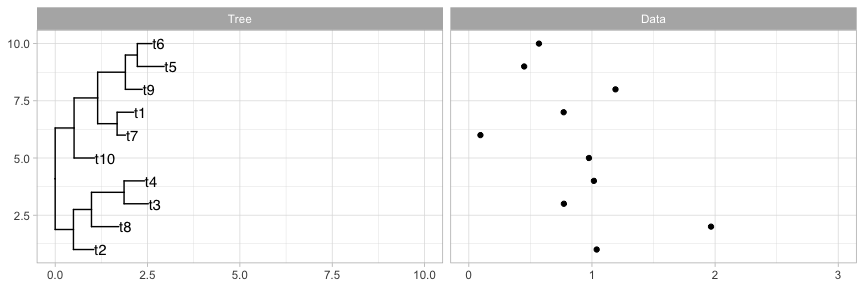
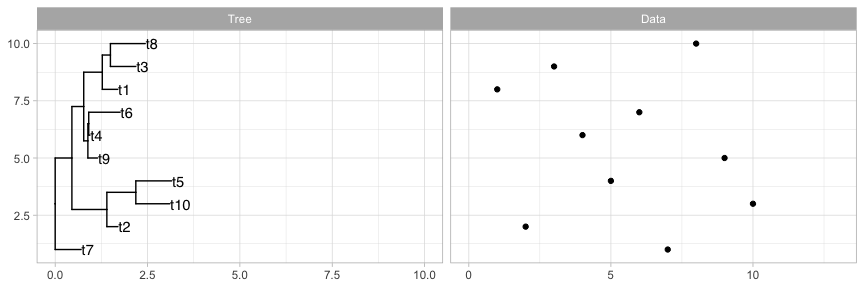
ggtree with barplots demo

diff --git a/Rscripts/phylogenetics/ggtree_demo.md b/Rscripts/phylogenetics/ggtree_demo.md
@@ -74,19 +74,19 @@ tip_dat
     ## # A tibble: 13 × 4
     ##    taxon fake_height fake_phenotype fake_phenotype2
     ##    <chr>       <dbl> <chr>          <chr>          
-    ##  1 A           120.  nose           fur            
-    ##  2 B            67.1 nose           spikes         
-    ##  3 C           106.  tail           spikes         
-    ##  4 D            55.1 teeth          scales         
-    ##  5 E           128.  tail           spikes         
-    ##  6 F           129.  teeth          scales         
-    ##  7 G           119.  tail           fur            
-    ##  8 H            60.1 nose           spikes         
-    ##  9 I           133.  nose           fur            
-    ## 10 J           113.  nose           fur            
-    ## 11 K           125.  nose           spikes         
-    ## 12 L            67.3 nose           fur            
-    ## 13 M           134.  teeth          scales
+    ##  1 A           108.  nose           spikes         
+    ##  2 B            71.8 tail           scales         
+    ##  3 C           117.  tail           scales         
+    ##  4 D            76.5 tail           fur            
+    ##  5 E           121.  nose           spikes         
+    ##  6 F            82.3 teeth          scales         
+    ##  7 G            92.4 teeth          fur            
+    ##  8 H            59.9 nose           fur            
+    ##  9 I            80.1 tail           fur            
+    ## 10 J           102.  teeth          spikes         
+    ## 11 K           124.  tail           spikes         
+    ## 12 L           100.  teeth          spikes         
+    ## 13 M           170.  teeth          scales
 
 ## combine tree and tbl
 
@@ -139,16 +139,16 @@ nwk_tree_with_info
     ## # The 'node', 'label' and 'isTip' are from the phylo tree.
     ##     node label isTip fake_height fake_phenotype fake_phenotype2
     ##    <int> <chr> <lgl>       <dbl> <chr>          <chr>          
-    ##  1     1 A     TRUE        120.  nose           fur            
-    ##  2     2 B     TRUE         67.1 nose           spikes         
-    ##  3     3 C     TRUE        106.  tail           spikes         
-    ##  4     4 D     TRUE         55.1 teeth          scales         
-    ##  5     5 E     TRUE        128.  tail           spikes         
-    ##  6     6 F     TRUE        129.  teeth          scales         
-    ##  7     7 G     TRUE        119.  tail           fur            
-    ##  8     8 H     TRUE         60.1 nose           spikes         
-    ##  9     9 I     TRUE        133.  nose           fur            
-    ## 10    10 J     TRUE        113.  nose           fur            
+    ##  1     1 A     TRUE        108.  nose           spikes         
+    ##  2     2 B     TRUE         71.8 tail           scales         
+    ##  3     3 C     TRUE        117.  tail           scales         
+    ##  4     4 D     TRUE         76.5 tail           fur            
+    ##  5     5 E     TRUE        121.  nose           spikes         
+    ##  6     6 F     TRUE         82.3 teeth          scales         
+    ##  7     7 G     TRUE         92.4 teeth          fur            
+    ##  8     8 H     TRUE         59.9 nose           fur            
+    ##  9     9 I     TRUE         80.1 tail           fur            
+    ## 10    10 J     TRUE        102.  teeth          spikes         
     ## # ℹ 15 more rows
 
 ## plot tree with annotations
@@ -269,7 +269,7 @@ gheatmap(p, genotype,
          colnames_offset_y= -1,
          colnames_angle=270) +
     # scale_y_continuous makes sure we can see the colnames
-   scale_y_continuous(expand=c(0.01, 0.01))
+    scale_y_continuous(expand=c(0.01, 0.01))
 ```
 
     ## Scale for y is already present.
@@ -356,17 +356,19 @@ geom_point to the right
 
 ``` r
 tr <- rtree(10)
-dd <- data.frame(id=tr$tip.label, value=abs(rnorm(10)))
+dd <- tibble(id=tr$tip.label) %>% 
+    mutate(value=as.integer(str_remove(id, "t")))
 ```
 
 ``` r
 p <- ggtree(tr) +
     geom_tiplab() +
-    geom_facet(panel = "Data", data = dd, 
-            geom = geom_point, mapping = aes(x = value)) + 
+    geom_facet(panel = "Data", 
+               data = dd,  ## the first column of dd, no matter what it's called, is where ggtree looks for the taxon labels
+               geom = geom_point, mapping = aes(x = value)) + 
     theme_light() +   # need theme_bw or similar to get the x axis scales to show
     xlim_tree(10) + # alter tree x scale
-    xlim_expand(c(0, 3), "Data") # alter points x scale
+    xlim_expand(c(0, 13), "Data") # alter points x scale
 p
 ```
 
@@ -378,8 +380,8 @@ geom_col to the right
 p <- ggtree(tr) +
     geom_tiplab() +
     geom_facet(panel = "Data", data = dd, 
-            geom = geom_col, mapping = aes(x = value),
-            orientation = "y") + 
+               geom = geom_col, mapping = aes(x = value),
+               orientation = "y") + 
     theme_light() +   # need theme_bw or similar to get the x axis scales to show
     xlim_tree(10) + # alter tree x scale
     xlim_expand(c(0, 3), "Data") # alter col x scale
@@ -387,6 +389,66 @@ p
 ```
 
 ![](ggtree_demo_files/figure-gfm/unnamed-chunk-18-1.png)<!-- -->
+
+It CAN handle missing data:
+
+``` r
+dd_slice <- slice_head(dd, n=5)
+
+ggtree(tr) +
+    geom_tiplab() +
+    geom_facet(panel = "Data", data = dd_slice, 
+               geom = geom_col, mapping = aes(x = value),
+               orientation = "y") + 
+    theme_light() +   # need theme_bw or similar to get the x axis scales to show
+    xlim_tree(10) + # alter tree x scale
+    xlim_expand(c(0, 3), "Data") # alter col x scale
+```
+
+![](ggtree_demo_files/figure-gfm/unnamed-chunk-19-1.png)<!-- -->
+
+There is also a [ggtreeExtra
+package](https://www.bioconductor.org/packages/release/bioc/vignettes/ggtreeExtra/inst/doc/ggtreeExtra.html)
+that provides a function, `geom_fruit`, to align graphs to a tree. This
+seems easier than the geom_facet way
+
+Simple geom_fruit demo:
+
+``` r
+ggtree(tr) +
+    geom_tiplab() +
+    geom_fruit(
+        data=dd, 
+        geom=geom_col, 
+        mapping=aes(x=value, y=id)
+    ) 
+```
+
+![](ggtree_demo_files/figure-gfm/unnamed-chunk-20-1.png)<!-- -->
+
+Now control how it looks more
+
+``` r
+ggtree(tr) +
+    geom_tiplab() +
+    geom_fruit(
+        data=dd, 
+        geom=geom_col, 
+        mapping=aes(x=value, y=id),
+        pwidth=0.8, ## pwidth affects width of the geom_col plot, relative to tree width (default is 0.2)
+        offset=0.1, ## add some space between tree and plot
+        axis.params = list(
+            axis = "x",
+            text.size = 4,
+            vjust = 1, hjust = 0.5,
+            limits = c(0, 10),
+            line.size=0.5, line.color = "black",
+            title="value", title.size=6
+        )
+    ) 
+```
+
+![](ggtree_demo_files/figure-gfm/unnamed-chunk-21-1.png)<!-- -->
 
 # Finished
 
@@ -412,22 +474,22 @@ sessionInfo()
     ## [1] stats     graphics  grDevices utils     datasets  methods   base     
     ## 
     ## other attached packages:
-    ##  [1] tidytree_0.4.6  treeio_1.28.0   ggtree_3.12.0   ape_5.8        
-    ##  [5] lubridate_1.9.3 forcats_1.0.0   stringr_1.5.1   dplyr_1.1.4    
-    ##  [9] purrr_1.0.2     readr_2.1.5     tidyr_1.3.1     tibble_3.2.1   
-    ## [13] ggplot2_3.5.1   tidyverse_2.0.0
+    ##  [1] tidytree_0.4.6     treeio_1.28.0      ggtreeExtra_1.14.0 ggtree_3.12.0     
+    ##  [5] ape_5.8            lubridate_1.9.3    forcats_1.0.0      stringr_1.5.1     
+    ##  [9] dplyr_1.1.4        purrr_1.0.2        readr_2.1.5        tidyr_1.3.1       
+    ## [13] tibble_3.2.1       ggplot2_3.5.1      tidyverse_2.0.0   
     ## 
     ## loaded via a namespace (and not attached):
     ##  [1] yulab.utils_0.1.7  utf8_1.2.4         generics_0.1.3     ggplotify_0.1.2   
     ##  [5] stringi_1.8.4      lattice_0.22-6     hms_1.1.3          digest_0.6.37     
     ##  [9] magrittr_2.0.3     evaluate_1.0.1     grid_4.4.0         timechange_0.3.0  
-    ## [13] fastmap_1.2.0      jsonlite_1.8.9     aplot_0.2.3        fansi_1.0.6       
-    ## [17] scales_1.3.0       lazyeval_0.2.2     cli_3.6.3          rlang_1.1.4       
-    ## [21] munsell_0.5.1      withr_3.0.1        yaml_2.3.10        tools_4.4.0       
-    ## [25] parallel_4.4.0     tzdb_0.4.0         colorspace_2.1-1   gridGraphics_0.5-1
-    ## [29] vctrs_0.6.5        R6_2.5.1           lifecycle_1.0.4    ggfun_0.1.6       
-    ## [33] fs_1.6.4           pkgconfig_2.0.3    pillar_1.9.0       gtable_0.3.5      
-    ## [37] glue_1.8.0         Rcpp_1.0.13        highr_0.11         xfun_0.48         
-    ## [41] tidyselect_1.2.1   rstudioapi_0.16.0  knitr_1.48         farver_2.1.2      
-    ## [45] patchwork_1.3.0    htmltools_0.5.8.1  nlme_3.1-166       labeling_0.4.3    
-    ## [49] rmarkdown_2.28     compiler_4.4.0
+    ## [13] fastmap_1.2.0      jsonlite_1.8.9     ggnewscale_0.5.0   aplot_0.2.3       
+    ## [17] fansi_1.0.6        scales_1.3.0       lazyeval_0.2.2     cli_3.6.3         
+    ## [21] rlang_1.1.4        munsell_0.5.1      withr_3.0.1        yaml_2.3.10       
+    ## [25] tools_4.4.0        parallel_4.4.0     tzdb_0.4.0         colorspace_2.1-1  
+    ## [29] gridGraphics_0.5-1 vctrs_0.6.5        R6_2.5.1           lifecycle_1.0.4   
+    ## [33] ggfun_0.1.6        fs_1.6.4           pkgconfig_2.0.3    pillar_1.9.0      
+    ## [37] gtable_0.3.5       glue_1.8.0         Rcpp_1.0.13        highr_0.11        
+    ## [41] xfun_0.48          tidyselect_1.2.1   rstudioapi_0.16.0  knitr_1.48        
+    ## [45] farver_2.1.2       patchwork_1.3.0    htmltools_0.5.8.1  nlme_3.1-166      
+    ## [49] labeling_0.4.3     rmarkdown_2.28     compiler_4.4.0
